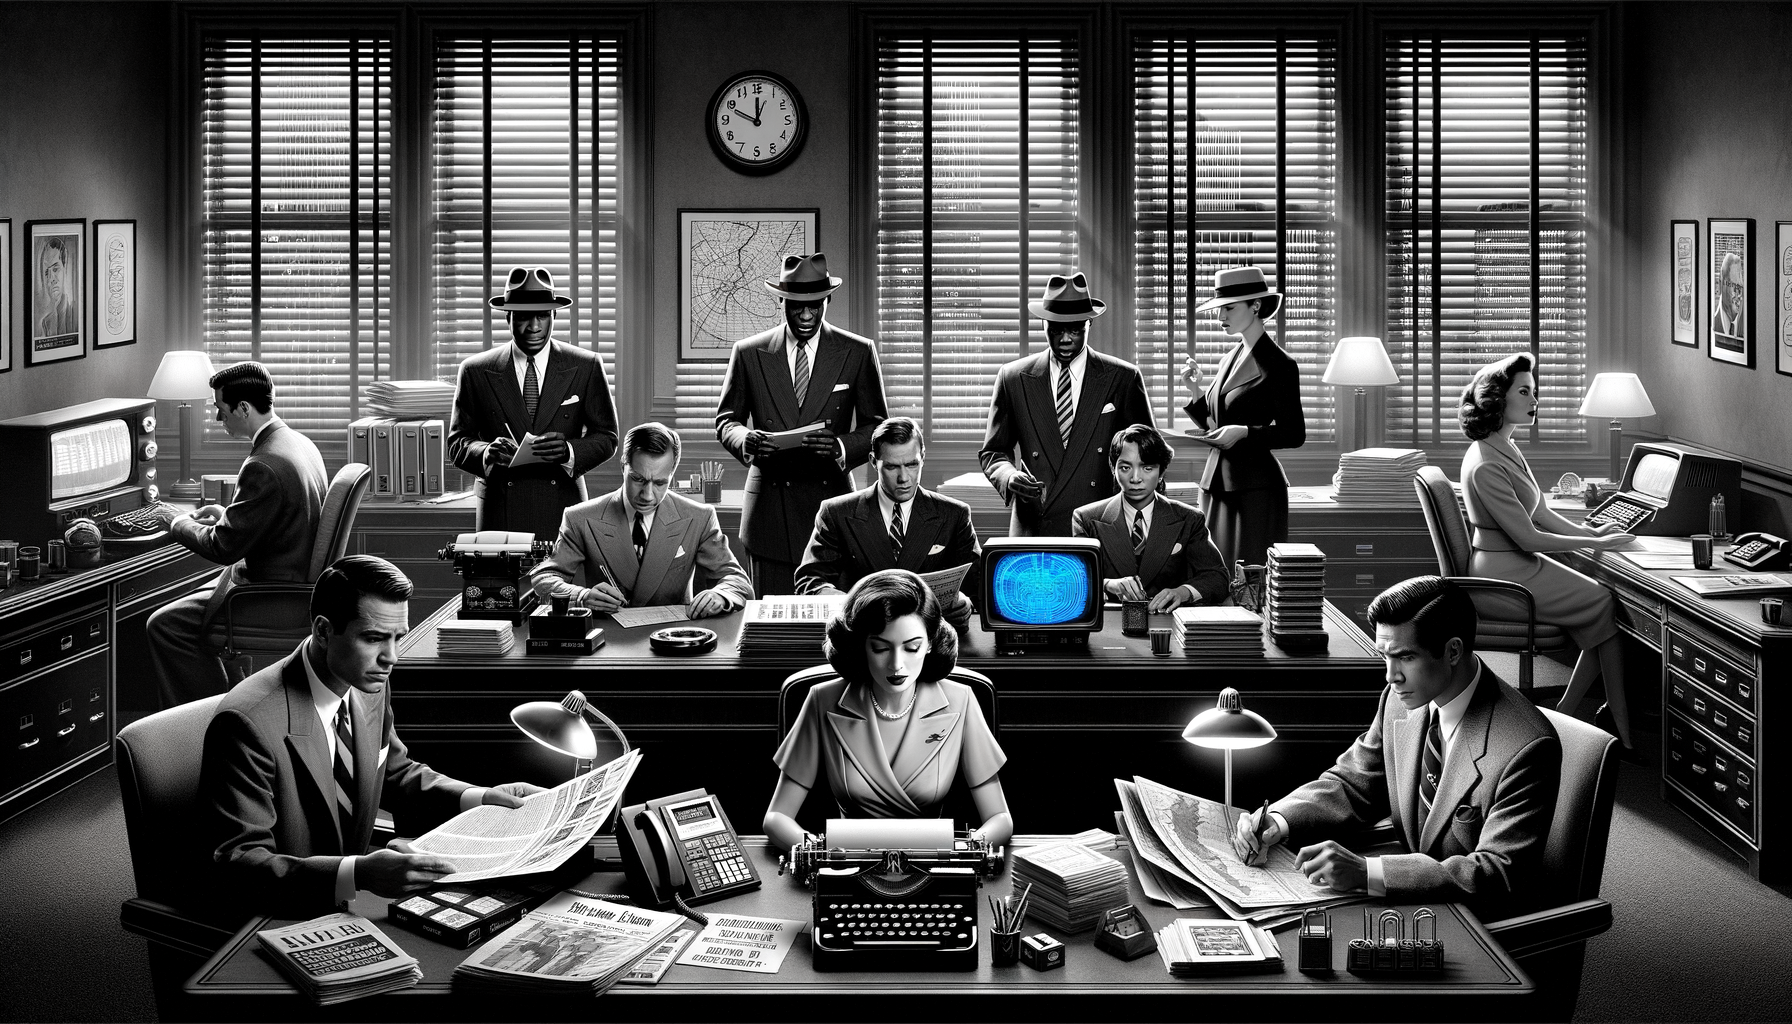
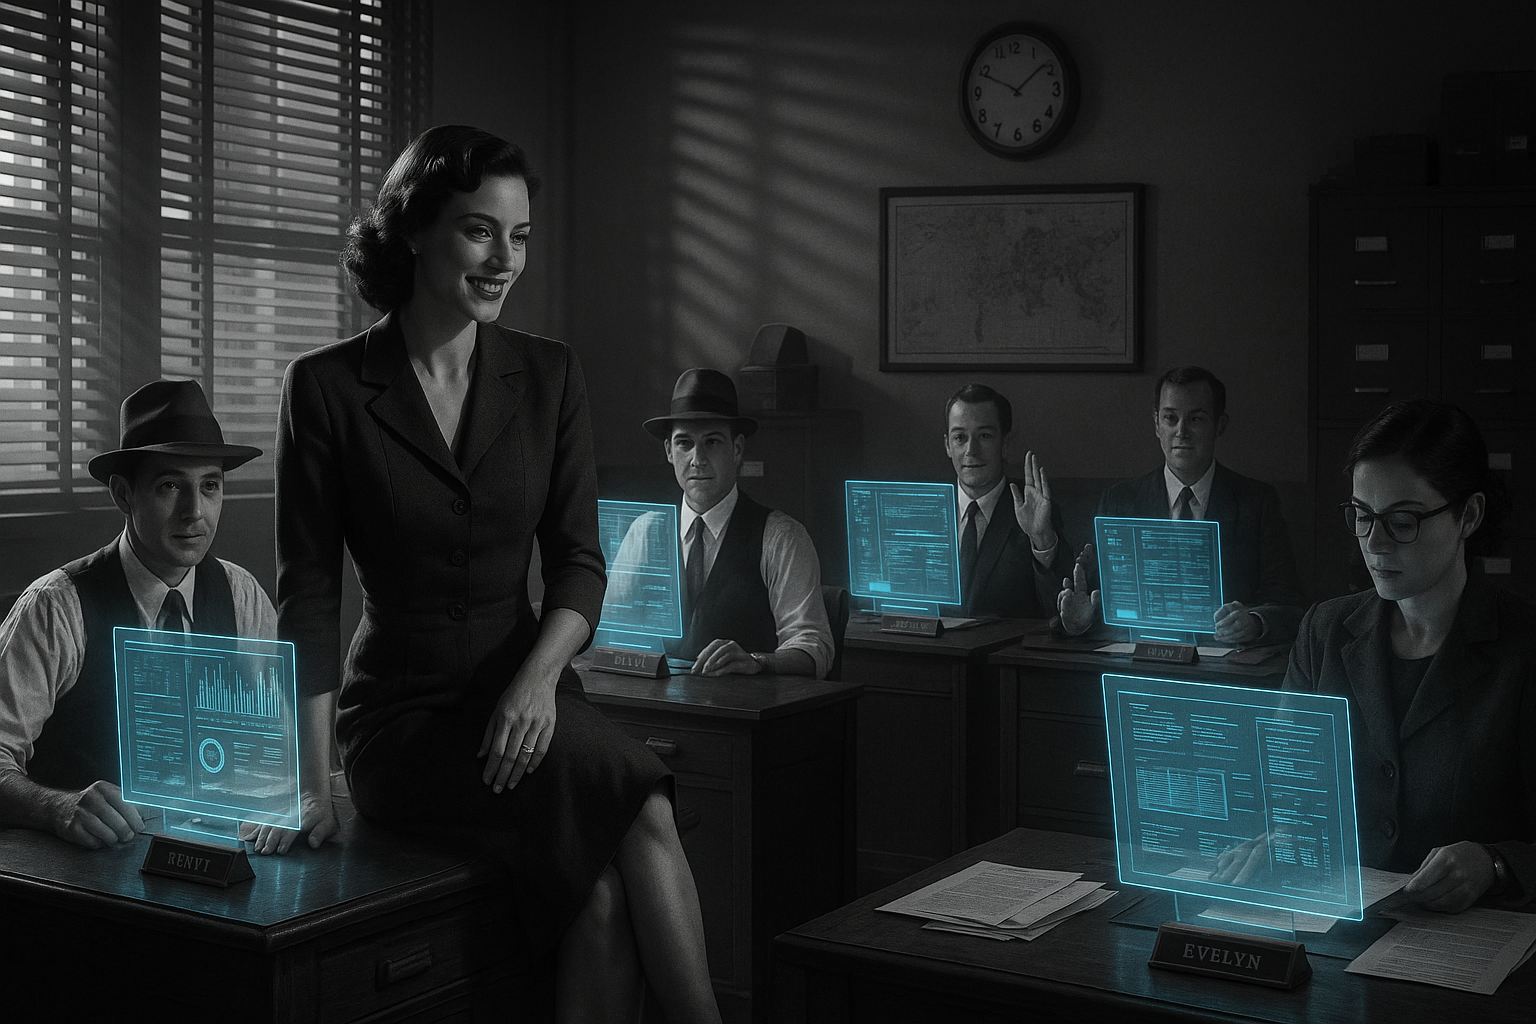
New team image + fix Artemis card layout (side-by-side with team photo)

diff --git a/src/app/page.tsx b/src/app/page.tsx
@@ -112,7 +112,7 @@ function RevenueHero() {
 function AgentCard({ agent }: { agent: Agent }) {
   const isActive = agent.status === "active";
   return (
-    <div className={`bg-[#1A1A1A] border border-[#2A2A2A] rounded-xl p-5 ${agent.isOrchestrator ? "md:col-span-full" : ""}`}>
+    <div className="bg-[#1A1A1A] border border-[#2A2A2A] rounded-xl p-5">
       <div className="flex items-start justify-between mb-2">
         <div className="flex items-center gap-3">
           <div className="relative">
